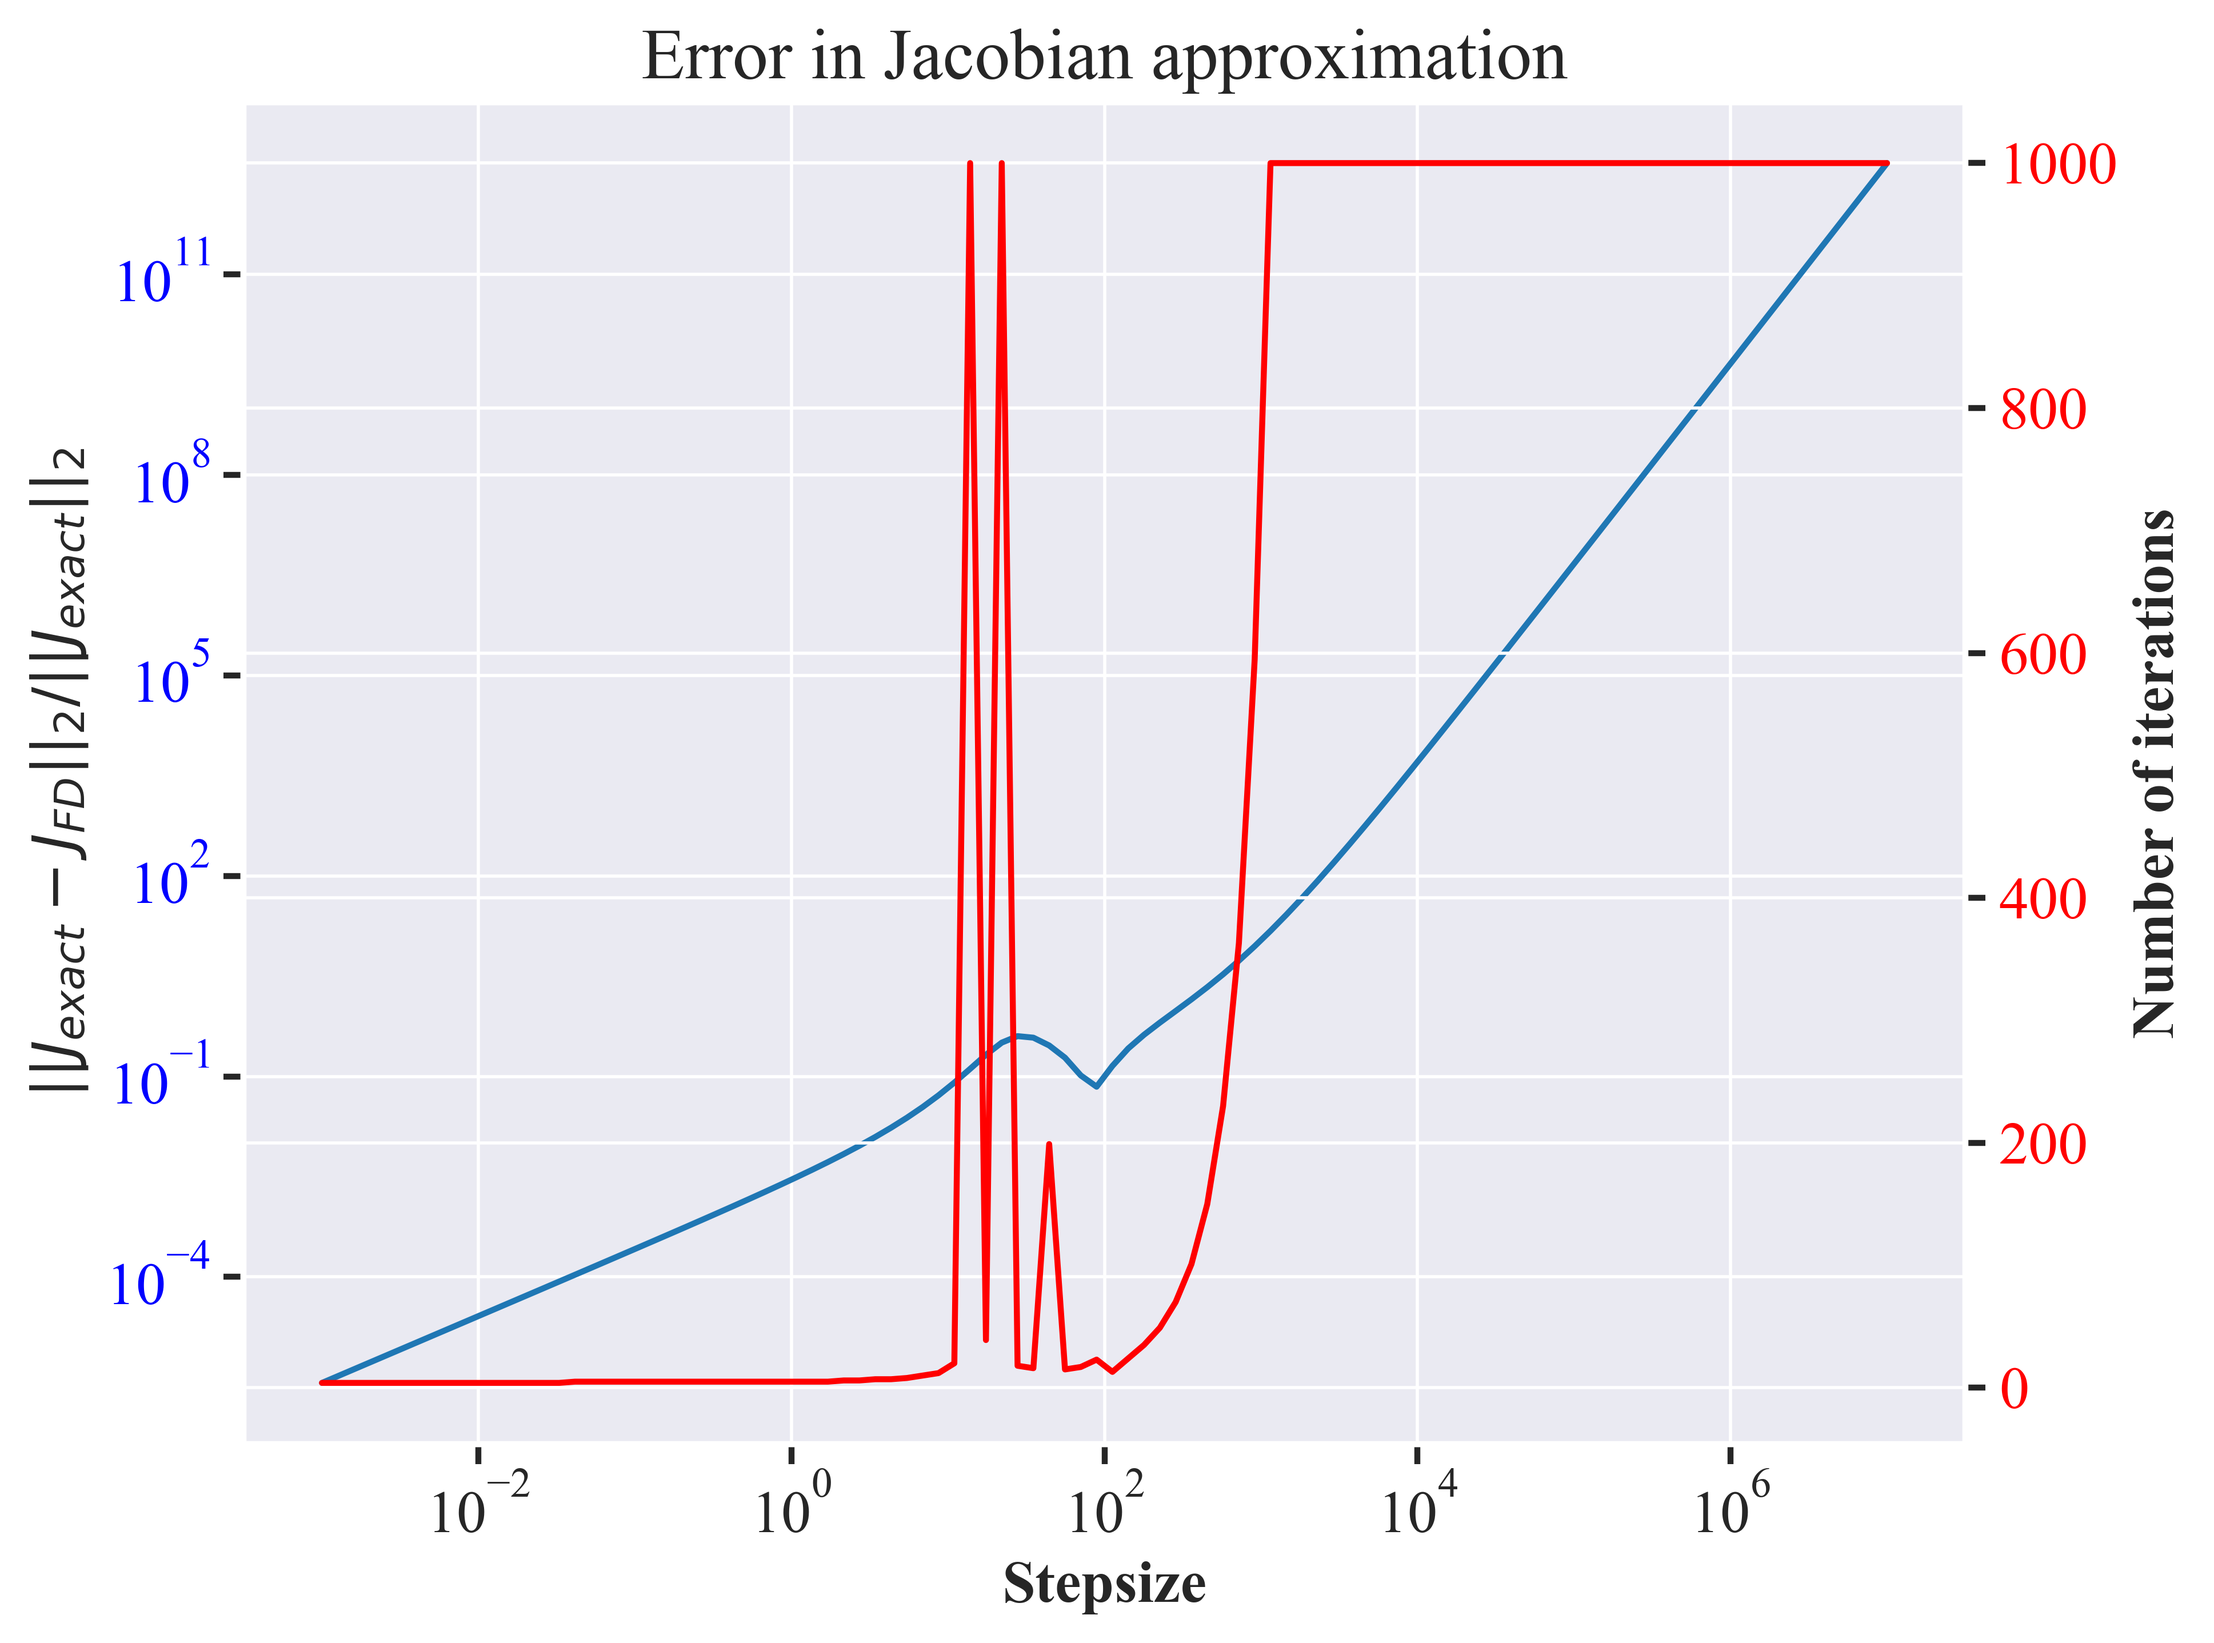
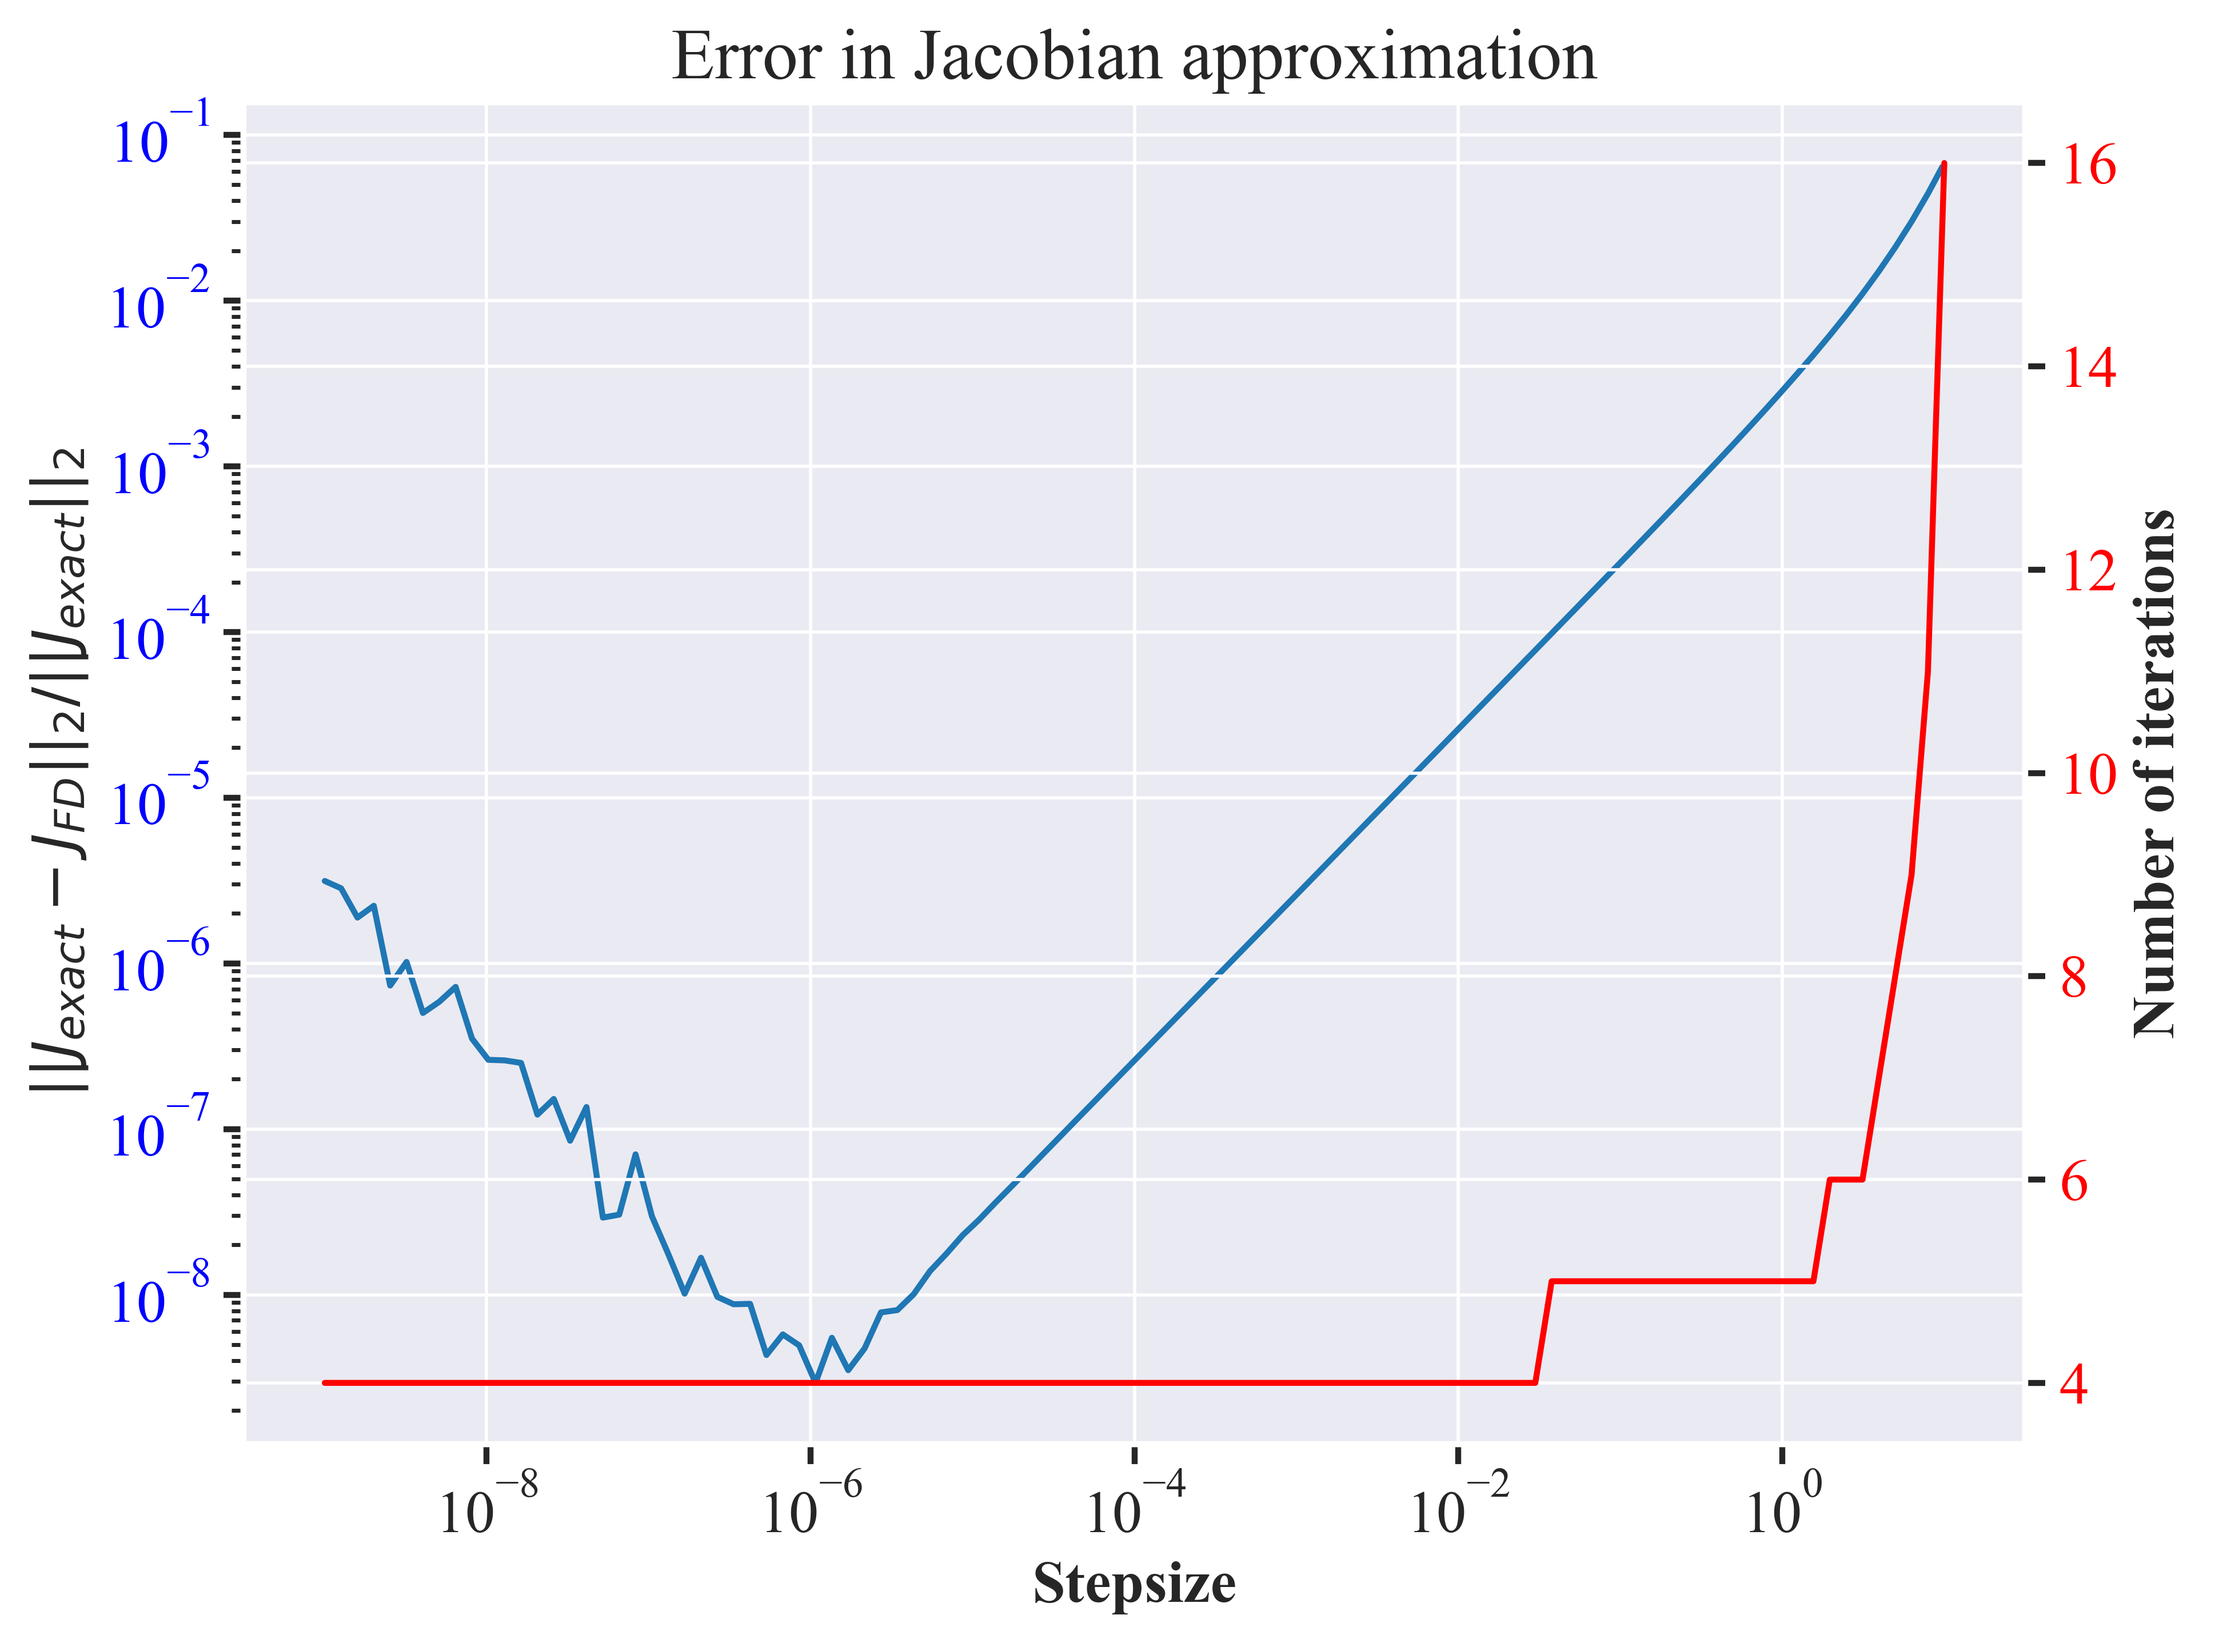
corrected stepsizes

diff --git a/code/ebm_finding_equilibrium.py b/code/ebm_finding_equilibrium.py
@@ -122,7 +122,7 @@ plt.savefig(fn, dpi=500)
 print("Saved equilibrium T to:\n  ", fn)
 
 ##################### exact vs finite difference jacobian #####################
-stepsizes = np.logspace(-3, 7, 100)
+stepsizes = np.logspace(-9, 1, 100)
 errors = []
 ebm.T_coeffs = np.zeros(n)
 ebm.T_coeffs[0] = initial_temperature
